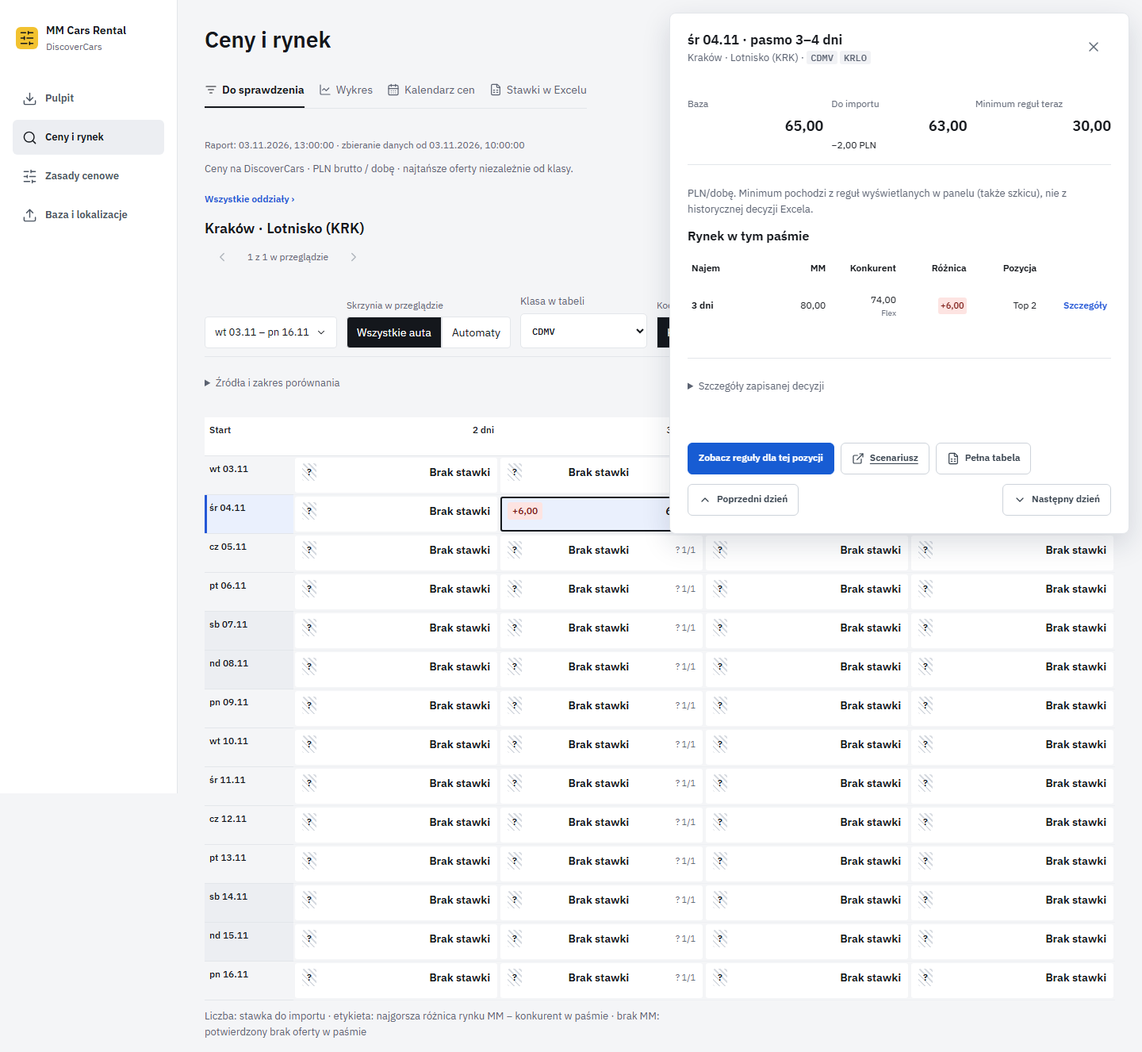
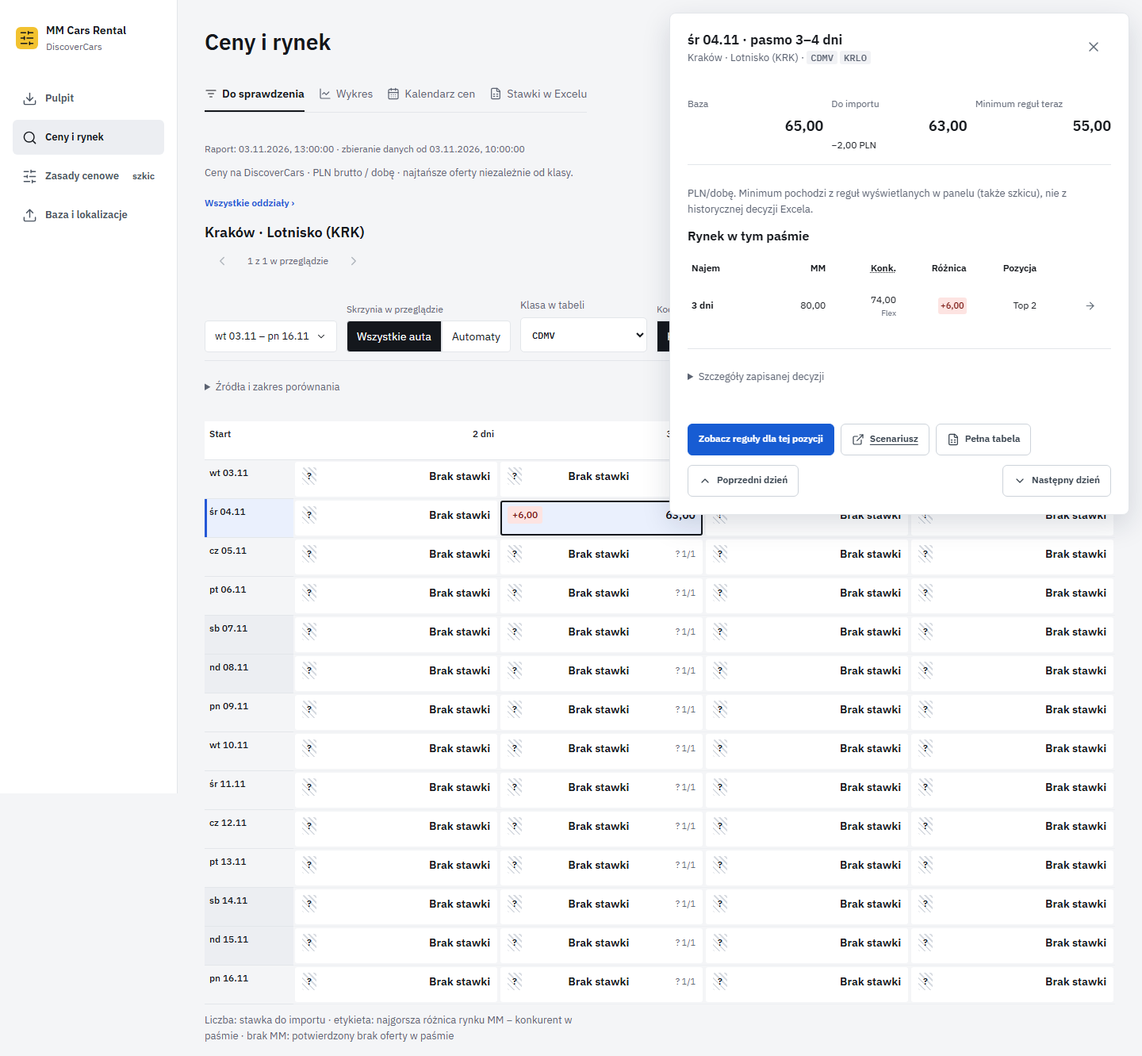
ui(stage 5): add operational dashboard and verify integrated price review

diff --git a/rules-panel/src/AttentionView.jsx b/rules-panel/src/AttentionView.jsx
@@ -1,15 +1,17 @@
 import React,{useMemo,useState,useEffect} from 'react';
 import {ChevronLeft,ChevronRight,ChevronDown} from 'lucide-react';
 import {weekdayDate} from './visual-format.mjs';
+import {matchesReview,reviewReasons} from './dashboard-model.mjs';
 import {AttentionMap} from './AttentionMap.jsx';
 import {buildAttentionMap} from './attention-map.mjs';
 import {warsawToday,plusDays,validDate,dateRange} from './market-model.mjs';
 import {branchOverview,locationLabel} from './operations.mjs';
 import {BandMatrix} from './BandMatrix.jsx';
-export function AttentionView({data,onSelect,request,model,workspace,service,calendar,onRules,onExcel}) {
+export function AttentionView({data,onSelect,request,model,workspace,service,calendar,onRules,onExcel,active=true,rulesModel=model}) {
  const [from,setFrom]=useState(warsawToday);const [to,setTo]=useState(()=>plusDays(warsawToday(),13));
  const [transmission,setTransmission]=useState('all');const [kind,setKind]=useState('all');
  const [location,setLocation]=useState(request?.row?.location??'');
+ const [reason,setReason]=useState(request?.reason??'all');
  const [mode,setMode]=useState('map'),[highlight,setHighlight]=useState(request?.row?.date??'');
  const rangeValid=validDate(from)&&validDate(to)&&from<=to&&Date.parse(to)-Date.parse(from)<366*86400000;
  const rows=useMemo(()=>(rangeValid?data?.rows??[]:[]).filter(r=>r.transmission===transmission&&r.duration>=2&&r.duration<=14&&(kind==='all'||r.type===kind)&&r.date>=from&&r.date<=to),[data,from,to,transmission,kind,rangeValid]);
@@ -18,14 +20,17 @@ export function AttentionView({data,onSelect,request,model,workspace,service,cal
 
  const dates=useMemo(()=>rangeValid?dateRange(from,to):[],[from,to,rangeValid]);
  const map=useMemo(()=>buildAttentionMap(rows,dates),[rows,dates]);
+ const visibleLocations=new Set(rows.filter(row=>matchesReview(row,reason)).map(row=>row.location));
+ const visibleMap=reason==='all'?map:map.filter(branch=>visibleLocations.has(branch.location));
  function openBranch(name,date=''){setLocation(name);setHighlight(date);}
  const position=map.findIndex(item=>item.location===location),summary=branches.find(item=>item.location===location);
  const rangeInputs=<><details className="range-picker"><summary>{weekdayDate(from,true)} – {weekdayDate(to,true)} <ChevronDown size={14}/></summary><div><label>Start od<input type="date" value={from} onChange={e=>setFrom(e.target.value)}/></label><label>Start do<input type="date" value={to} onChange={e=>setTo(e.target.value)}/></label></div></details><div><span className="filter-label">Skrzynia w przeglądzie</span><div className="segmented" role="group" aria-label="Skrzynia w przeglądzie">{[['all','Wszystkie auta'],['automatic','Automaty']].map(([value,label])=><button key={value} aria-pressed={transmission===value} onClick={()=>setTransmission(value)}>{label}</button>)}</div></div></>;
  return <section className="attention-view" aria-label="Przegląd oddziałów">
  {location?<header className="branch-header"><div><button className="text-button" onClick={()=>setLocation('')}>Wszystkie oddziały ›</button><h2>{locationLabel(location)}</h2><div className="branch-navigation"><button className="icon-button" title="Poprzedni oddział" aria-label="Poprzedni oddział" disabled={position<=0} onClick={()=>openBranch(map[position-1].location)}><ChevronLeft size={18}/></button><span>{position+1} z {map.length} w przeglądzie</span><button className="icon-button" title="Następny oddział" aria-label="Następny oddział" disabled={position<0||position>=map.length-1} onClick={()=>openBranch(map[position+1].location)}><ChevronRight size={18}/></button></div></div>{summary&&<p>{summary.missingDates} dni bez MM · {summary.over} z {summary.comparable} MM droższe &gt;10 · {summary.unavailable} brak danych</p>}</header>:<h2>Przegląd oddziałów</h2>}
- {!location&&<div className="market-filters">{rangeInputs}<label>Oddziały przeglądu<select value={kind} onChange={e=>{setKind(e.target.value);setLocation('');}}><option value="all">Wszystkie oddziały</option><option value="airport">Lotniska</option><option value="branch">Poza lotniskami</option></select></label></div>}
+ {!location&&<div className="market-filters"><label>Pozycje przeglądu<select value={reason} onChange={e=>setReason(e.target.value)}>{Object.entries(reviewReasons).map(([value,label])=><option value={value} key={value}>{label}</option>)}</select></label>{rangeInputs}<label>Oddziały przeglądu<select value={kind} onChange={e=>{setKind(e.target.value);setLocation('');}}><option value="all">Wszystkie oddziały</option><option value="airport">Lotniska</option><option value="branch">Poza lotniskami</option></select></label></div>}
+ {!location&&reason!=='all'&&<p className="evidence-note">Oddziały z pozycjami: {reviewReasons[reason]}. Pozostałe dni i ceny tych oddziałów pozostają widoczne.</p>}
  {!rangeValid&&<p role="alert">Początek zakresu musi poprzedzać koniec.</p>}
- {!location?<><div className="segmented" aria-label="Układ przeglądu"><button aria-pressed={mode==='map'} onClick={()=>setMode('map')}>Mapa</button><button aria-pressed={mode==='table'} onClick={()=>setMode('table')}>Tabela oddziałów</button></div>{mode==='map'?<AttentionMap branches={map} dates={dates} locations={data?.locations??[]} events={calendar?.items??[]} onOpen={openBranch}/>:<><p className="evidence-note">Brak MM: liczba dat z przynajmniej jednym potwierdzonym brakiem oferty. Różnica cen nie oznacza błędu ani możliwości obniżki.</p><table className="attention-table"><thead><tr><th>Oddział</th><th>Daty bez MM</th><th>MM droższe &gt;10 PLN/dobę</th><th>Brak danych</th><th></th></tr></thead><tbody>{branches.map(b=><tr key={b.location}><th scope="row" data-label="Oddział">{locationLabel(b.location)}</th><td data-label="Daty bez MM">{b.missingDates}</td><td data-label="MM droższe >10 PLN/dobę">{b.share===null?'Brak porównania':`${(b.share*100).toLocaleString('pl-PL',{maximumFractionDigits:0})}% (${b.over}/${b.comparable})`}</td><td data-label="Brak danych">{b.unavailable}</td><td><button className="text-button" onClick={()=>openBranch(b.location)}>Sprawdź oddział</button></td></tr>)}</tbody></table><p className="evidence-note">Procent dotyczy sprawdzeń z potwierdzoną ceną MM i konkurenta. Braki ofert i danych nie wchodzą do mianownika.</p></>}</>:<>{data&&<BandMatrix data={data} rows={rows.filter(r=>r.location===location)} dates={dates} location={location} transmission={transmission} model={model} workspace={workspace} service={service} onSelect={onSelect} highlight={highlight} filters={rangeInputs} onRules={onRules} onExcel={onExcel}/>}</>}
+ {!location?<><div className="segmented" aria-label="Układ przeglądu"><button aria-pressed={mode==='map'} onClick={()=>setMode('map')}>Mapa</button><button aria-pressed={mode==='table'} onClick={()=>setMode('table')}>Tabela oddziałów</button></div>{mode==='map'?<AttentionMap branches={visibleMap} dates={dates} locations={data?.locations??[]} events={calendar?.items??[]} onOpen={openBranch}/>:<><p className="evidence-note">Brak MM: liczba dat z przynajmniej jednym potwierdzonym brakiem oferty. Różnica cen nie oznacza błędu ani możliwości obniżki.</p><table className="attention-table"><thead><tr><th>Oddział</th><th>Daty bez MM</th><th>MM droższe &gt;10 PLN/dobę</th><th>Brak danych</th><th></th></tr></thead><tbody>{branches.filter(b=>visibleLocations.has(b.location)).map(b=><tr key={b.location}><th scope="row" data-label="Oddział">{locationLabel(b.location)}</th><td data-label="Daty bez MM">{b.missingDates}</td><td data-label="MM droższe >10 PLN/dobę">{b.share===null?'Brak porównania':`${(b.share*100).toLocaleString('pl-PL',{maximumFractionDigits:0})}% (${b.over}/${b.comparable})`}</td><td data-label="Brak danych">{b.unavailable}</td><td><button className="text-button" onClick={()=>openBranch(b.location)}>Sprawdź oddział</button></td></tr>)}</tbody></table><p className="evidence-note">Procent dotyczy sprawdzeń z potwierdzoną ceną MM i konkurenta. Braki ofert i danych nie wchodzą do mianownika.</p></>}</>:<>{data&&<BandMatrix activeView={active} rulesModel={rulesModel} data={data} rows={rows.filter(r=>r.location===location)} dates={dates} location={location} transmission={transmission} model={model} workspace={workspace} service={service} onSelect={onSelect} highlight={highlight} filters={rangeInputs} onRules={onRules} onExcel={onExcel}/>}</>}
  {!rows.length&&<p>Brak danych w wybranym zakresie.</p>}
  </section>;
 }

diff --git a/rules-panel/src/MarketWorkspace.jsx b/rules-panel/src/MarketWorkspace.jsx
@@ -17,17 +17,19 @@ const dayLabel=day=>`${day.slice(8)}.${day.slice(5,7)}.${day.slice(0,4)}`;
 const shortMoney=value=>value===null?'—':new Intl.NumberFormat('pl-PL',{maximumFractionDigits:0,notation:value>=10000?'compact':'standard'}).format(value);
 const tabs=[['attention','Do sprawdzenia',ListFilter],['chart','Wykres',ChartLine],['calendar','Kalendarz cen',CalendarDays],['excel','Stawki w Excelu',FileSpreadsheet]];
 
-export function MarketWorkspace({model,workspace,service,calendar,market,request,onRules}) {
+export function MarketWorkspace({model,workspace,service,calendar,market,request,onRules,active=true,rulesModel=model}) {
   const [view,setView]=useState('attention');const {data,busy,error,load}=market;const handledRequest=useRef(null);
   const [kind,setKind]=useState('airport');const [location,setLocation]=useState('Krakow Airport (KRK)');const [transmission,setTransmission]=useState('all');
   const [durations,setDurations]=useState([3]);const [from,setFrom]=useState('');const [to,setTo]=useState('');const [month,setMonth]=useState(warsawToday().slice(0,7));
   const [selected,setSelected]=useState(null);const neighbors=useRef([]);const selectRow=useCallback((row,items=[])=>{neighbors.current=items;setSelected(row);},[]);
+  const [excelGroup,setExcelGroup]=useState(undefined);
   const [excelVisited,setExcelVisited]=useState(false);const [excelZone,setExcelZone]=useState('KRLO');const [excelDuration,setExcelDuration]=useState(3);
   const marketLocations=model.locations.locations??model.locations;
   useEffect(()=>{if(view==='excel')setExcelVisited(true);},[view]);
   useEffect(()=>{const zones=marketLocations.find(l=>l.scraper_label===location)?.zones??[];setExcelZone(old=>zones.includes(old)?old:zones[0]??'');},[location,model.locations]);
-  const excelSelection={zone:excelZone,duration:durations.includes(excelDuration)?excelDuration:durations[0]??3,transmission,from,to};
+  const excelSelection={group:excelGroup,zone:excelZone,duration:durations.includes(excelDuration)?excelDuration:durations[0]??3,transmission,from,to};
   function changeExcel(patch) {
+    if ('group' in patch) setExcelGroup(patch.group);
     if ('zone' in patch) {setExcelZone(patch.zone);const item=marketLocations.find(l=>l.zones.includes(patch.zone));if(item){setLocation(item.scraper_label);setKind(item.kind==='airport'?'airport':'branch');}}
     if ('duration' in patch) {setExcelDuration(patch.duration);setDurations([patch.duration]);}
     if ('transmission' in patch) setTransmission(patch.transmission);
@@ -43,12 +45,12 @@ export function MarketWorkspace({model,workspace,service,calendar,market,request
   const days=useMemo(()=>rangeValid?dateRange(from,to):[],[from,to,rangeValid]);
   const applicableZones=data?.locations?.find(l=>l.scraper_label===location)?.zones??[];
   const series=duration=>{const found=new Map(rows.filter(r=>r.duration===duration).map(r=>[r.date,r]));return days.map(date=>found.get(date)??{date,duration,location,transmission,mm:null,competitor:null,marketConfirmed:false,gap:null,missingScenario:true});};
-  useEffect(()=>{setSelected(null);},[kind,location,transmission,durations,from,to]);
-  useEffect(()=>{if(!request||handledRequest.current===request.id||!data||!from||!to)return;handledRequest.current=request.id;setView('attention');selectRow(request.row??null,request.neighbors??[]);},[request,data,from,to,selectRow]);
+  useEffect(()=>{setSelected(null);},[kind,location,transmission,durations,from,to,view,active]);
+  useEffect(()=>{if(!request||handledRequest.current===request.id||!data||!from||!to)return;handledRequest.current=request.id;setView('attention');selectRow(null);},[request,data,from,to,selectRow]);
   function preset(count){const dates=[...new Set(data.rows.map(r=>r.date))].sort();const start=dates.find(d=>d>=warsawToday())??dates[0];setFrom(start);setTo(count?([plusDays(start,count-1),dates.at(-1)].sort()[0]):dates.at(-1));setMonth(start.slice(0,7));}
   function changeMonth(value){const dates=monthDates(value);if(dates.length){setMonth(value);setFrom(dates[0]);setTo(dates.at(-1));}}
   function shiftMonth(step){const [y,m]=month.split('-').map(Number);changeMonth(new Date(Date.UTC(y,m-1+step,1)).toISOString().slice(0,7));}
-  function openExcel(row){const zones=data.locations.find(l=>l.scraper_label===row.location)?.zones??[];if(zones.length){changeExcel({zone:zones[0],duration:row.duration,transmission:row.transmission,from:row.date,to:row.date});setView('excel');}}
+  function openExcel(row){const zones=data.locations.find(l=>l.scraper_label===row.location)?.zones??[];if(zones.length){changeExcel({zone:row.excelSelection?.zone??zones[0],group:row.excelSelection?.group??excelGroup,duration:row.duration,transmission:row.transmission,from:row.date,to:row.date});setView('excel');}}
   const reportLink=report?`/api/report/open?runId=${report.runId}`:null;
   return <section className={`market-workspace ${selected?'has-detail':''}`}>
     <div className="market-toolbar"><ViewTabs items={tabs} value={view} onChange={setView} label="Widok cen"/>{reportLink&&<a className="text-button" href={reportLink} target="_blank" rel="noreferrer"><ExternalLink size={16}/>Pełny raport HTML</a>}</div>
@@ -63,7 +65,7 @@ export function MarketWorkspace({model,workspace,service,calendar,market,request
         {data.report.quality==='failure'&&<div className="alert">Dane rynku są dostępne. Ten przebieg nie opublikował nowych plików Excel.</div>}
         {Date.now()-Date.parse(data.report.sourceStartedAt)>86400000&&<div className="alert">Zbieranie danych rozpoczęło się ponad 24 godziny temu. Dokładny czas odczytu poszczególnych cen nie jest zapisany w tym raporcie.</div>}
       </>}
-      <div hidden={view!=='attention'||!data}><AttentionView onRules={onRules} onExcel={openExcel} calendar={calendar} model={model} workspace={workspace} service={service} key={request?.id??"default"} request={request} data={data} onSelect={selectRow} selected={selected}/></div>
+      <div hidden={view!=='attention'||!data}><AttentionView active={active&&view==='attention'} rulesModel={rulesModel} onRules={onRules} onExcel={openExcel} calendar={calendar} model={model} workspace={workspace} service={service} key={request?.id??"default"} request={request} data={data} onSelect={selectRow} selected={selected}/></div>
       {data&&<>
         <div hidden={view==='attention'} className="market-filters chart-filters"><label>Oddziały<select value={kind} onChange={e=>{setKind(e.target.value);setLocation('*');}}><option value="airport">Lotniska</option><option value="all">Wszystkie oddziały</option><option value="branch">Poza lotniskami</option></select></label><label>Lokalizacja rynku<select value={location} onChange={e=>setLocation(e.target.value)}><option value="*">Wszystkie lokalizacje</option>{locations.map(l=><option key={l} value={l}>{locationLabel(l)}</option>)}</select></label><label>Skrzynia<select value={transmission} onChange={e=>setTransmission(e.target.value)}><option value="all">Wszystkie auta</option><option value="automatic">Tylko automaty</option></select></label>
         {view==='calendar'?<DurationChips values={durations} onChange={setDurations}/>:<details className="duration-select"><summary>Długość najmu: {durations.length?durations.join(', '):'brak'} dni</summary><fieldset><legend>Długości najmu</legend>{Array.from({length:13},(_,i)=>i+2).map(d=><label key={d}><input type="checkbox" checked={durations.includes(d)} onChange={e=>setDurations(old=>e.target.checked?[...old,d].sort((a,b)=>a-b):old.filter(n=>n!==d))}/>{d} dni</label>)}</fieldset></details>}

diff --git a/rules-panel/src/Dashboard.jsx b/rules-panel/src/Dashboard.jsx
@@ -1,12 +1,41 @@
-import React from 'react';
-import {ArrowRight,Download} from 'lucide-react';
-import {timestamp,dateRanges} from './display.mjs';
-export function Dashboard({workspace,onMarket}) {
- const {report,excel,links={}}=workspace?.status??{};
+import React,{useMemo} from 'react';
+import {ArrowRight,Download,RotateCcw} from 'lucide-react';
+import {timestamp} from './display.mjs';
+import {weekdayDate} from './visual-format.mjs';
+import {money,warsawToday} from './market-model.mjs';
+import {locationLabel,countLabel} from './operations.mjs';
+import {nextSchedule} from './change-review.mjs';
+import {dashboardOverview} from './dashboard-model.mjs';
+import {PriceBadge} from './PriceBadge.jsx';
+
+export function Dashboard({workspace,onMarket,market,changeCount=0,largeCount=0,onReview,onDiagnostics}) {
+ const {report,excel,links={},executions}=workspace?.status??{};
+ const {data,busy,error,load}=market;
+ const today=warsawToday(),overview=useMemo(()=>dashboardOverview(data,today),[data,today]);
+ const old=report&&Date.now()-Date.parse(report.sourceStartedAt)>86400000;
+ const next=nextSchedule(__SCRAPER_PLAN__),last=executions?.latestScrape;
+ const latestUnknown=last&&last.runId!==report?.runId;
+ const excelState=latestUnknown?'Sprawdź ostatni przebieg':report?.quality==='failure'?'Excel nieopublikowany':excel?'Excel dostępny':'Brak poprawnego Excela';
+ const coverage=report?.coverage?.expected>0?(100*report.coverage.found/report.coverage.expected).toLocaleString('pl-PL',{maximumFractionDigits:1})+'% sprawdzeń':null;
+ const zone=location=>data?.locations?.find(item=>item.scraper_label===location)?.zones?.[0];
+ const longDay=new Intl.DateTimeFormat('pl-PL',{weekday:'long',day:'numeric',month:'long',timeZone:'Europe/Warsaw'}).format(new Date(today+'T12:00:00Z'));
  return <section className="operations-dashboard" aria-label="Podsumowanie raportu">
- <p>{report?`Odczyt cen od ${timestamp(report.sourceStartedAt)} · starty ${dateRanges(report.startDates).join(', ')}`:'Brak potwierdzonego raportu cenowego.'}</p>
- <p>{excel?`Excel: ${timestamp(excel.generatedAt)}`:'Brak poprawnych plików Excel.'}{excel&&report?.runId!==excel.runId&&' Pliki pochodzą z innego uruchomienia niż raport cen.'}</p>
- {report&&Date.now()-Date.parse(report.sourceStartedAt)>86400000&&<p className="alert">Dane cenowe są starsze niż 24 godziny.</p>}
- <div className="review-actions">{excel&&links.import&&<a className="button primary" href={links.import}><Download size={17}/>Import</a>}{excel&&links.recommendations&&<a className="button" href={links.recommendations}><Download size={17}/>Rekomendacje</a>}<button className="button" onClick={()=>onMarket('all')}>Przejrzyj ceny<ArrowRight size={17}/></button></div>
+  <div className="dashboard-status">
+   <div><span>Raport cen</span><strong>{!report?'Brak potwierdzonego raportu':old?'Starszy niż 24 h':'Aktualny'}</strong><small>{report?timestamp(report.generatedAt):'Brak danych'}{coverage&&' · '+coverage}</small></div>
+   <div><span>Excel</span><button className="text-button" onClick={onDiagnostics}>{excelState}</button><small>{latestUnknown?'Diagnostyka ostatniego uruchomienia':report?.incident?.title??(excel?timestamp(excel.generatedAt):'Brak plików')}</small></div>
+   <div><span>Szkic zasad</span><button className="text-button" onClick={onReview}>{countLabel(changeCount,'zmiana','zmiany','zmian')} · Przejrzyj</button><small>{largeCount?countLabel(largeCount,'duża zmiana','duże zmiany','dużych zmian'):'Brak dużych zmian'}</small></div>
+   <div><span>Następny planowany start</span><strong>{next?next.time:'Brak harmonogramu'}</strong><small>{next?weekdayDate(next.date)+' · rolling '+next.rollingDays+' dni':''} · czas polski</small></div>
+  </div>
+  <header className="dashboard-heading"><div><h2>Przegląd na {longDay}</h2><p>Najbliższe 14 dni · {data?countLabel(overview.locationCount,'oddział','oddziały','oddziałów'):'odczyt oddziałów'} · najem 2–14 dni · wszystkie auta · {data?overview.rows.length.toLocaleString('pl-PL'):'—'} sprawdzeń</p></div><button className="button primary" onClick={()=>onMarket('all')}>Zacznij przegląd<ArrowRight size={17}/></button></header>
+  <div className="review-actions">{excel&&links.import&&<a className="button" href={links.import}><Download size={17}/>Import</a>}{excel&&links.recommendations&&<a className="button" href={links.recommendations}><Download size={17}/>Rekomendacje</a>}</div>
+  {excel&&report?.runId!==excel.runId&&<p className="alert">Pliki Excel pochodzą z innego uruchomienia niż raport cen. Nie przedstawiamy ich jako nowych plików tego przebiegu.</p>}
+  {busy&&<p role="status">Odczytywanie raportu cenowego…</p>}
+  {error&&<div role="alert" className="alert error">{error}<button className="button" onClick={load}><RotateCcw size={16}/>Ponów odczyt cen</button></div>}
+  {data&&<><div className="dashboard-metrics">{overview.metrics.map(metric=><button key={metric.reason} className="dashboard-metric" onClick={()=>onMarket(metric.reason)}><span>{metric.label}</span><strong>{metric.count.toLocaleString('pl-PL')}</strong><small>w {metric.branches} z {overview.locationCount} oddziałów</small><span className={'metric-bars metric-'+metric.reason} role="img" aria-label={metric.days.map(day=>weekdayDate(day.date,true)+': '+day.count).join('; ')}>{metric.days.map(day=><i key={day.date} style={{height:Math.max(2,36*day.count/Math.max(1,...metric.days.map(d=>d.count)))}}/>)}</span></button>)}</div>
+   <div className="dashboard-lists"><section className="dashboard-urgent"><div className="section-title"><h3>Najpilniejsze</h3><button className="text-button" onClick={()=>onMarket('urgent')}>Wszystkie ({overview.urgent.length})</button></div>
+    <table><thead><tr><th>Oddział</th><th>Start</th><th>Najem</th><th>MM</th><th>Konkurent</th><th>MM − konkurent</th></tr></thead><tbody>{overview.urgent.slice(0,6).map(row=><tr key={row.key}><th data-label="Oddział"><button className="text-button" onClick={()=>onMarket('all',row)}>{locationLabel(row.location)}</button> <span className="code">{zone(row.location)}</span></th><td data-label="Start">{weekdayDate(row.date,true)}</td><td data-label="Najem">{row.duration} dni</td><td data-label="MM">{row.mm===null?'brak MM':money(row.mm)}</td><td data-label="Konkurent">{money(row.competitor)}</td><td data-label="MM − konkurent"><PriceBadge gap={row.gap} missing={row.mm===null}/></td></tr>)}</tbody></table>
+    {!overview.urgent.length&&<p>Brak potwierdzonych braków MM i różnic ponad 10 PLN/dobę.</p>}
+   </section><section className="dashboard-branches"><h3>Oddziały z największą liczbą pozycji</h3><p className="evidence-note">Brak MM / MM droższe &gt;10 PLN/dobę</p>{overview.branches.filter(branch=>branch.missing+branch.over>0).slice(0,6).map(branch=><button key={branch.location} onClick={()=>onMarket('all',{location:branch.location})}><span>{locationLabel(branch.location)}</span><strong>{branch.missing+branch.over}</strong><span className="branch-bars" role="img" aria-label={branch.missing+' braków MM, '+branch.over+' droższych ofert'}><i className="tone-missing" style={{width:100*branch.missing/Math.max(1,...overview.branches.map(b=>b.missing+b.over))+'%'}}/><i className="tone-over-3" style={{width:100*branch.over/Math.max(1,...overview.branches.map(b=>b.missing+b.over))+'%'}}/></span></button>)}</section></div>
+  </>}
  </section>;
 }

diff --git a/rules-panel/src/redesign.css b/rules-panel/src/redesign.css
@@ -42,3 +42,12 @@ body{background:var(--bg)}.brand-symbol{width:28px;height:28px;background:var(--
 .calendar-section-heading{display:flex;gap:12px;flex-wrap:wrap;align-items:center;justify-content:space-between;margin:12px 0}.calendar-section-heading>span{color:var(--muted);font-size:12px}
 .market-calendar-grid .market-day{min-height:106px;padding:8px;border:1px solid transparent;border-radius:4px;display:flex;flex-direction:column;align-items:start;gap:4px;text-align:left}.market-calendar-grid .market-day strong{font-size:18px;font-weight:600}.market-calendar-grid .market-day small{font-size:12px;color:inherit}.market-calendar-grid .market-day>span{font-size:12px;display:flex;justify-content:space-between;width:100%}.market-calendar-grid .outside-report{border:1px dashed var(--line);background:transparent;color:var(--muted);opacity:1}.market-calendar-grid .weekend>span{font-weight:600;text-decoration:underline;text-underline-offset:3px}.market-calendar-grid .today{outline:2px solid var(--ink);outline-offset:-2px}
 @media(max-width:760px){.market-calendar-grid{gap:3px}.market-calendar-grid .market-day{min-height:95px;padding:4px 2px;gap:3px}.market-calendar-grid .market-day strong{font-size:16px}.market-calendar-grid .market-day small{font-size:10px;overflow-wrap:anywhere}.market-calendar-grid .market-day>span{font-size:10px}.calendar-section-heading{display:block}.duration-chips details>div{left:auto;right:0}}
+.dashboard-status{display:grid;grid-template-columns:repeat(4,minmax(0,1fr));border-block:1px solid var(--line);padding:14px 0;gap:16px}.dashboard-status>div{display:flex;flex-direction:column;align-items:start;gap:5px;min-width:0}.dashboard-status span,.dashboard-status small{font-size:12px;color:var(--muted);overflow-wrap:anywhere}.dashboard-status strong{font-size:15px;font-weight:500}.dashboard-status .text-button{padding:0;min-height:40px;text-align:left;white-space:normal}
+.dashboard-heading{display:flex;justify-content:space-between;align-items:center;gap:16px;margin:24px 0 12px}.dashboard-heading h2{font-size:22px;margin:0}.dashboard-heading p{font-size:13px;color:var(--muted)}.dashboard-heading .button{flex-shrink:0}
+.dashboard-metrics{display:grid;grid-template-columns:repeat(4,minmax(0,1fr));gap:12px;margin:24px 0}.dashboard-metric{border:1px solid var(--line);background:white;border-radius:6px;padding:16px;text-align:left;font:inherit;color:var(--ink);min-width:0;display:flex;flex-direction:column;gap:8px}.dashboard-metric>span:first-child{font-size:13px;min-height:38px}.dashboard-metric>strong{font-size:28px;font-weight:600}.dashboard-metric>small{font-size:12px;color:var(--muted)}.metric-bars{height:36px;display:grid;grid-template-columns:repeat(14,minmax(0,1fr));gap:3px;align-items:end}.metric-bars i{display:block;background:var(--ink);width:100%}.metric-over i{background:var(--over-3)}.metric-reserve i{background:var(--under-3)}.metric-unavailable i{background:#777f8c}.dashboard-metric:hover{border-color:var(--ink)}
+.dashboard-lists{display:grid;grid-template-columns:minmax(0,2fr) minmax(230px,1fr);gap:24px;border-top:1px solid var(--line);padding:20px 0}.dashboard-lists h3{font-size:16px;font-weight:600;margin:0 0 12px}.dashboard-urgent table{width:100%;table-layout:fixed;font-size:12px}.dashboard-urgent th,.dashboard-urgent td{padding:10px 5px;border-bottom:1px solid var(--line-soft);text-align:right;overflow-wrap:anywhere}.dashboard-urgent th:first-child{width:28%;text-align:left}.dashboard-urgent th .text-button{font-size:12px;text-align:left;padding:0;white-space:normal;color:var(--ink)}.dashboard-urgent th .code{display:block;width:fit-content}.dashboard-urgent .price-badge{white-space:normal}
+.dashboard-branches>button{display:grid;grid-template-columns:minmax(0,1fr) auto;width:100%;border:0;background:transparent;font:inherit;text-align:left;gap:6px;padding:10px 0;border-bottom:1px solid var(--line-soft);min-height:60px;font-size:13px}.branch-bars{grid-column:1/-1;display:flex;gap:1px;height:8px;width:100%}.branch-bars i{display:block}.dashboard-branches .evidence-note{font-size:11px}
+@media(max-width:1100px){.dashboard-lists{grid-template-columns:1fr}.dashboard-status{grid-template-columns:repeat(2,minmax(0,1fr))}}
+@media(max-width:760px){.dashboard-heading{display:block}.dashboard-heading h2{font-size:20px}.dashboard-heading .button{margin-top:12px}.dashboard-metrics{grid-template-columns:repeat(2,minmax(0,1fr));gap:8px}.dashboard-metric{padding:12px}.dashboard-metric>strong{font-size:24px}.dashboard-urgent thead{display:none}.dashboard-urgent table,.dashboard-urgent tbody{display:block}.dashboard-urgent tbody tr{display:grid;grid-template-columns:repeat(2,minmax(0,1fr));border-bottom:1px solid var(--line);padding:10px 0}.dashboard-urgent th:first-child{grid-column:1/-1;width:auto}.dashboard-urgent td,.dashboard-urgent th{border:0;text-align:left}.dashboard-urgent td:before{content:attr(data-label);display:block;font-size:10px;color:var(--muted)}.dashboard-status{gap:12px}}
+.operations-dashboard{display:block}.operations-dashboard>.review-actions:empty{display:none}.operations-dashboard>.review-actions{margin:12px 0}.change-review-table td:nth-child(2),.change-review-table td:nth-child(3),.change-review-table td:nth-child(4){text-align:right}.band-detail .technical-details{margin:12px 0}.band-detail .band-scenarios td,.band-detail .band-scenarios th{padding-block:8px}
+@media(max-width:760px){.band-matrix>thead th:first-child{width:62px}.band-detail .band-scenarios .icon-button{padding:4px;width:40px;height:40px}.band-detail .band-scenarios abbr{text-decoration:none}}

diff --git a/rules-panel/src/main.jsx b/rules-panel/src/main.jsx
@@ -28,10 +28,14 @@ import {
   Upload as UploadIcon,
   X,
 } from "lucide-react";
-import "@fontsource/ibm-plex-sans/400.css";
-import "@fontsource/ibm-plex-sans/500.css";
-import "@fontsource/ibm-plex-sans/600.css";
-import "@fontsource/ibm-plex-mono/500.css";
+import "@fontsource/ibm-plex-sans/latin-400.css";
+import "@fontsource/ibm-plex-sans/latin-ext-400.css";
+import "@fontsource/ibm-plex-sans/latin-500.css";
+import "@fontsource/ibm-plex-sans/latin-ext-500.css";
+import "@fontsource/ibm-plex-sans/latin-600.css";
+import "@fontsource/ibm-plex-sans/latin-ext-600.css";
+import "@fontsource/ibm-plex-mono/latin-500.css";
+import "@fontsource/ibm-plex-mono/latin-ext-500.css";
 import {ViewTabs} from "./ViewTabs.jsx";
 import "./styles.css";
 import * as policy from "./policy.mjs";
@@ -182,7 +186,7 @@ function App() {
   const [view, setView] = useState(routeView);
   const [pricesVisited, setPricesVisited] = useState(() => routeView() === 'prices');
   const [marketRequest,setMarketRequest]=useState(null);
-  const market=useMarketReport(service,workspaceData?.status?.report,pricesVisited);
+  const market=useMarketReport(service,workspaceData?.status?.report,pricesVisited||view==='results');
   const attentionCount=useMemo(()=>market.data?overviewRows(market.data).filter(row=>marketSignals(row,market.data.report).includes('missing')).length:null,[market.data]);
   const [ruleContext,setRuleContext]=useState(null);
   const [ruleView, setRuleView] = useState('list');
@@ -767,7 +771,7 @@ function App() {
               </>)}
             </>
           )}
-          {pricesVisited && <div hidden={view !== 'prices'}><MarketWorkspace onRules={query=>{setRuleContext(query);go('rules');}} model={original} workspace={workspaceData} service={service} calendar={calendarEvents} market={market} request={marketRequest}/></div>}
+          {pricesVisited && <div hidden={view !== 'prices'}><MarketWorkspace active={view==='prices'} rulesModel={model} onRules={query=>{setRuleContext(query);go('rules');}} model={original} workspace={workspaceData} service={service} calendar={calendarEvents} market={market} request={marketRequest}/></div>}
           {view === "groups" && (
             <>
             {remote && <div className="shared-reason"><ReasonField value={reason} onChange={setReason} /></div>}
@@ -851,7 +855,7 @@ function App() {
               )}
             </section>
           )}
-          {view === 'results' && <><Dashboard workspace={workspaceData} onMarket={openMarket}/><ReportsView workspace={workspaceData ?? {status:{available:false},capabilities:{publish:false}}} service={service} onRefresh={refreshWorkspace} onPublished={async () => acceptWorkspace(await service.workspace())} /><details className="technical-details"><summary>Konfiguracja techniczna</summary><Sources snapshot={snapshot} model={model} remote={remote} capabilities={workspaceData?.capabilities} /></details></>}
+          {view === 'results' && <><Dashboard workspace={workspaceData} market={market} changeCount={changes.length} largeCount={requiredConfirmations(model,original).length} onReview={()=>go('review')} onDiagnostics={()=>{const details=document.querySelector('.reports-diagnostics');if(details){details.open=true;details.scrollIntoView({block:'start'});}}} onMarket={openMarket}/><ReportsView workspace={workspaceData ?? {status:{available:false},capabilities:{publish:false}}} service={service} onRefresh={refreshWorkspace} onPublished={async () => acceptWorkspace(await service.workspace())} /><details className="technical-details"><summary>Konfiguracja techniczna</summary><Sources snapshot={snapshot} model={model} remote={remote} capabilities={workspaceData?.capabilities} /></details></>}
           {view === 'baseline' && <><BaselineView snapshot={snapshot} service={service} enabled={Boolean(remote && workspaceData?.capabilities.publish)} onPublished={async () => acceptWorkspace(await service.workspace())} /><details className="technical-details"><summary>Powiązania lokalizacji ({locationList(original).length})</summary><table className="location-directory"><thead><tr><th>Lokalizacja rynku</th><th>Kody w Excelu</th><th>Typ</th></tr></thead><tbody>{locationList(original).map(item => <tr key={item.id}><td data-label="Lokalizacja rynku">{locationLabel(item.scraper_label)}</td><td data-label="Kody w Excelu">{item.zones.join(', ')}</td><td data-label="Typ">{item.kind === 'airport' ? 'Lotnisko' : 'Poza lotniskiem'}</td></tr>)}</tbody></table></details></>}
         </main>
       </div>

diff --git a/rules-panel/src/BandDetail.jsx b/rules-panel/src/BandDetail.jsx
@@ -1,5 +1,5 @@
 import React,{useEffect,useRef,useMemo} from 'react';
-import {X,ChevronUp,ChevronDown,ExternalLink,FileSpreadsheet} from 'lucide-react';
+import {X,ChevronUp,ChevronDown,ExternalLink,FileSpreadsheet,ArrowRight} from 'lucide-react';
 import {previewPolicy} from './policy.mjs';
 import {bandLabel,bandEvidence} from './band-matrix.mjs';
 import {money,scenarioLink} from './market-model.mjs';
@@ -9,10 +9,10 @@ import {PriceBadge} from './PriceBadge.jsx';
 import {InlineDecision} from './InlineDecision.jsx';
 import {mixedBand} from './attention-map.mjs';
 
-export function BandDetail({date,cell,zone,group,result,location,transmission,data,model,workspace,service,onClose,onMove,canPrevious,canNext,onSelect,onRules,onExcel}) {
+export function BandDetail({date,cell,zone,group,result,location,transmission,data,model,workspace,service,onClose,onMove,canPrevious,canNext,onSelect,onRules,onExcel,rulesModel=model}) {
  const dialog=useRef(null),heading=useRef(null),previous=useRef(document.activeElement);
  const evidence=bandEvidence(result,cell.band[0]),record=evidence?.rows.find(row=>row.date===date);
- const minima=useMemo(()=>Array.from({length:cell.band[1]-cell.band[0]+1},(_,i)=>previewPolicy(model,{zone,group,pickupDate:date,duration:cell.band[0]+i}).floor).filter(Number.isFinite),[model,zone,group,date,cell.band]);
+ const minima=useMemo(()=>!zone||!group?[]:Array.from({length:cell.band[1]-cell.band[0]+1},(_,i)=>previewPolicy(rulesModel,{zone,group,pickupDate:date,duration:cell.band[0]+i}).floor).filter(Number.isFinite),[rulesModel,zone,group,date,cell.band]);
  const floor=minima.length?(Math.min(...minima)===Math.max(...minima)?money(minima[0]):money(Math.min(...minima))+'–'+money(Math.max(...minima))):'Brak minimum';
  const enriched=row=>({...row,excelSelection:{zone,group},excelEvidence:evidence});
  const selected=enriched(cell.rows[0]??{date,duration:cell.band[0],location,transmission});
@@ -37,7 +37,7 @@ export function BandDetail({date,cell,zone,group,result,location,transmission,da
   <section className="band-scenarios" aria-label={`Najem ${bandLabel(cell.band)} dni`}><h3>Rynek w tym paśmie</h3>
    {cell.band[1]===20&&<p className="evidence-note">15–20 dni: brak sprawdzeń rynku. Stawka Excela obejmuje cały przedział 8–20.</p>}
    {cell.unavailable>0&&<p className="evidence-note">Brak potwierdzonych cen dla: {cell.expected.filter(d=>!cell.rows.some(r=>r.duration===d&&r.marketConfirmed)).join(', ')} dni.</p>}
-   <table><thead><tr><th>Najem</th><th>MM</th><th>Konkurent</th><th>Różnica</th><th>Pozycja</th><th></th></tr></thead><tbody>{cell.rows.map(row=><tr key={row.key}><th>{row.duration} dni</th><td>{row.marketConfirmed?money(row.mm):'?'}</td><td>{row.marketConfirmed?money(row.competitor):'?'}<small>{row.provider}</small></td><td><PriceBadge gap={row.gap} missing={row.marketConfirmed&&row.mm===null} unavailable={!row.marketConfirmed}/></td><td>{row.rankLabel??'Brak danych'}</td><td><button className="text-button" onClick={()=>{onClose();onSelect(enriched(row),cell.rows.map(enriched));}}>Szczegóły</button></td></tr>)}</tbody></table>
+   <table><thead><tr><th>Najem</th><th>MM</th><th><abbr title="Najtańszy konkurent">Konk.</abbr></th><th>Różnica</th><th>Pozycja</th><th></th></tr></thead><tbody>{cell.rows.map(row=><tr key={row.key}><th>{row.duration} dni</th><td>{row.marketConfirmed?money(row.mm):'?'}</td><td>{row.marketConfirmed?money(row.competitor):'?'}<small>{row.provider}</small></td><td><PriceBadge gap={row.gap} missing={row.marketConfirmed&&row.mm===null} unavailable={!row.marketConfirmed}/></td><td>{row.rankLabel??'Brak danych'}</td><td><button className="icon-button" title="Szczegóły scenariusza" aria-label="Szczegóły" onClick={()=>{onClose();onSelect(enriched(row),cell.rows.map(enriched));}}><ArrowRight size={15}/></button></td></tr>)}</tbody></table>
    {!cell.rows.length&&<p>Brak sprawdzonych scenariuszy w tym przedziale.</p>}
   </section>
   <details className="technical-details"><summary>Szczegóły zapisanej decyzji</summary>{evidence?<InlineDecision lockedSelection key={date+'-'+group+'-'+zone} row={selected} data={data} model={model} workspace={workspace} service={service}/>:<p>Brak odczytanego zapisu Excela dla tego pasma.</p>}</details>

diff --git a/rules-panel/src/BandMatrix.jsx b/rules-panel/src/BandMatrix.jsx
@@ -8,7 +8,7 @@ import {BandDetail} from './BandDetail.jsx';
 const dayLabel=value=>weekdayDate(value,true);
 
 
-export function BandMatrix({data,rows,dates,location,transmission,model,workspace,service,onSelect,highlight,filters,onRules,onExcel}) {
+export function BandMatrix({data,rows,dates,location,transmission,model,workspace,service,onSelect,highlight,filters,onRules,onExcel,activeView=true,rulesModel=model}) {
  const groups=knownGroups(model),zones=data.locations.find(l=>l.scraper_label===location)?.zones??[];
  const [group,setGroup]=useState(groups.includes('CDMV')?'CDMV':groups[0]);
  const [chosen,setChosen]=useState('');const zone=zones.includes(chosen)?chosen:zones[0];
@@ -23,6 +23,7 @@ export function BandMatrix({data,rows,dates,location,transmission,model,workspac
  },[key,attempt,service]);
  useEffect(()=>{setExpanded(null);setLimit(20);onSelect(null);},[key,dates.join(','),transmission,onSelect]);
  useEffect(()=>{if(!highlight)return;setLimit(n=>Math.max(n,dates.indexOf(highlight)+1));requestAnimationFrame(()=>document.getElementById('band-day-'+highlight)?.scrollIntoView({block:'nearest'}));},[highlight,dates.join(',')]);
+ useEffect(()=>{if(!activeView)setExpanded(null);},[activeView]);
  const current=state.key===key?state:{};
  const matrix=useMemo(()=>buildBandMatrix(dates,rows,data.report.durations),[dates,rows,data.report.durations]);
  const active=matrix.flatMap(day=>day.cells.map(cell=>({date:day.date,cell}))).find(item=>expanded===item.date+'-'+item.cell.band[0]);
@@ -41,7 +42,7 @@ export function BandMatrix({data,rows,dates,location,transmission,model,workspac
    return <td key={id}><button className="band-cell" aria-label={`${weekdayDate(day.date)} · ${bandLabel(cell.band)} dni${cell.missingMM?' · brak MM w '+cell.missingMM+' z '+cell.expected.length+' długości':''}`} aria-expanded={open} onClick={()=>setExpanded(open?null:id)}><small className="mobile-band">{bandLabel(cell.band)} dni</small><PriceBadge gap={cell.worstGap} missing={cell.missingMM>0} unavailable={cell.worstGap===null&&!cell.missingMM}/><strong>{current.busy?'Odczyt…':rate==null?'Brak stawki':money(rate)}</strong>{cell.unavailable>0&&<small className="band-unavailable">? {cell.unavailable}/{cell.expected.length}</small>}</button></td>;
   })}</tr>)}</tbody></table>
   <p className="evidence-note">Liczba: stawka do importu · etykieta: najgorsza różnica rynku MM − konkurent w paśmie · brak MM: potwierdzony brak oferty w paśmie</p>
-  {active&&<BandDetail {...active} zone={zone} group={group} result={current.data} location={location} transmission={transmission} data={data} model={model} workspace={workspace} service={service} onClose={()=>setExpanded(null)} onMove={moveDay} canPrevious={dayIndex>0} canNext={dayIndex<matrix.length-1} onSelect={onSelect} onRules={onRules} onExcel={onExcel}/>}
+  {active&&<BandDetail rulesModel={rulesModel} {...active} zone={zone} group={group} result={current.data} location={location} transmission={transmission} data={data} model={model} workspace={workspace} service={service} onClose={()=>setExpanded(null)} onMove={moveDay} canPrevious={dayIndex>0} canNext={dayIndex<matrix.length-1} onSelect={onSelect} onRules={onRules} onExcel={onExcel}/>}
   {matrix.length>limit&&<button className="button" onClick={()=>setLimit(n=>n+20)}>Pokaż kolejne 20 dat</button>}
  </section>;
 }

diff --git a/rules-panel/src/AmountField.jsx b/rules-panel/src/AmountField.jsx
@@ -9,7 +9,7 @@ export function AmountField({label,before,value,onChange,ruleId,scope,confirmati
   const next=nextSchedule(__SCRAPER_PLAN__);
   return <div className="amount-field"><label>{label}<input autoFocus={autoFocus} type="number" min="0.01" max="100000" step="0.01" aria-invalid={invalid} required={!optional} value={value??''} placeholder={optional?'Bez zmian':undefined} onChange={e=>onChange(e.target.value===''?'':Number(e.target.value))}/></label>
     <p className="amount-comparison">{before!=null?`Obecnie ${money(before)} PLN → ${amountValid(value)?money(Number(value)):'—'} PLN`:'Nowa reguła · brak jednej dotychczasowej stawki do porównania'}</p>
-    {delta&&delta.delta!==0&&<p className="amount-delta">{delta.delta>0?'+':''}{money(delta.delta)} PLN · {delta.percent>0?'+':''}{delta.percent.toLocaleString('pl-PL',{maximumFractionDigits:2})}%{delta.large&&` · ×${delta.factor.toLocaleString('pl-PL',{maximumFractionDigits:2})}`}</p>}
+    {delta&&delta.delta!==0&&<p className="amount-delta">{delta.delta>0?'+':''}{money(delta.delta)} PLN · {delta.large?`×${delta.factor.toLocaleString('pl-PL',{maximumFractionDigits:2})}`:`${delta.percent>0?'+':''}${delta.percent.toLocaleString('pl-PL',{maximumFractionDigits:2})}%`}</p>}
     {invalid&&<p className="field-error" role="alert">Podaj kwotę większą od 0 i nie większą niż 100 000 PLN.</p>}
     {delta?.large&&<div className="large-amount-warning" role="alert"><strong>Duża zmiana kwoty</strong><p>Zakres reguły: {scope}.</p>{next&&<p>Planowany start: {next.date.split('-').reverse().join('.')} o {next.time}, czas polski. Zmiana dotyczy uruchomień rozpoczętych po publikacji.</p>}<label className="checkbox-label"><input type="checkbox" checked={Boolean(checked)} onChange={e=>onConfirm(item,e.target.checked)}/>Potwierdzam kwotę {money(Number(value))} PLN</label></div>}
   </div>;

diff --git a/rules-panel/src/PriceCalendar.jsx b/rules-panel/src/PriceCalendar.jsx
@@ -20,7 +20,7 @@ export function PriceCalendar({month,rows,duration,events,zones,onSelect,reportD
    const missing=row?.marketConfirmed&&row.mm===null;
    const tone=missing?'missing':row?.marketConfirmed&&Number.isFinite(row.gap)?priceTone(-row.gap):'nodata';
    const entries=eventsForDay(events,day,zones);
-   const description=outside?'poza raportem':!row?'poza filtrem dat':!row.marketConfirmed?'brak potwierdzonych danych':missing?`brak MM, konkurent ${money(row.competitor)} PLN/d`:`MM ${money(row.mm)}, konkurent ${money(row.competitor)}, różnica ${signedPrice(-row.gap)} PLN/d`;
+   const description=outside?'poza raportem':!row?'poza filtrem dat':!row.marketConfirmed?'brak potwierdzonych danych':missing?`brak MM, konkurent ${money(row.competitor)} PLN/d`:`MM ${money(row.mm)}, konkurent ${money(row.competitor)}, różnica ${Number.isFinite(row.gap)?signedPrice(-row.gap)+' PLN/d':'brak porównania'}`;
    return <button key={day} disabled={!enabled} className={`market-day tone-${tone} ${outside||!row?'outside-report':''} ${isWeekend(day)?'weekend':''} ${day===warsawToday()?'today':''}`} aria-label={`${weekdayDate(day)}, ${description}`} onClick={()=>onSelect(row)}><span>{Number(day.slice(8))}{entries.length>0&&<CalendarDays className="event-day-marker" size={12} aria-label={entries.map(e=>e.title).join(', ')}/>}</span>{outside||!row?<small>{outside?'poza raportem':'poza filtrem'}</small>:<><strong>{missing?'brak MM':row.marketConfirmed?shortMoney(row.mm):'?'}</strong><small>konk. {row.marketConfirmed?shortMoney(row.competitor):'?'}</small><small>{Number.isFinite(row.gap)&&row.marketConfirmed?signedPrice(-row.gap,0):'?'}</small></>}</button>;
   })}</div>
  </section>;

diff --git a/rules-panel/src/PricesView.jsx b/rules-panel/src/PricesView.jsx
@@ -16,7 +16,9 @@ export function PricesView({model,workspace,service,selection,onSelectionChange}
   const {zone,duration,transmission,from,to}=selection;
   const setZone=zone=>onSelectionChange({zone});const setDuration=duration=>onSelectionChange({duration});
   const setTransmission=transmission=>onSelectionChange({transmission});const setFrom=from=>onSelectionChange({from});const setTo=to=>onSelectionChange({to});
-  const [group,setGroup]=useState(groups.includes('CDMV')?'CDMV':groups[0]??'');
+  const [localGroup,setLocalGroup]=useState(groups.includes('CDMV')?'CDMV':groups[0]??'');
+  const group=selection.group??localGroup;
+  const setGroup=value=>{setLocalGroup(value);onSelectionChange({group:value});};
   const [data,setData]=useState(null);const [busy,setBusy]=useState(false);const [error,setError]=useState('');
   const [selected,setSelected]=useState('');const [limit,setLimit]=useState(20);
   const report=workspace?.status?.report;const excel=workspace?.status?.excel;

diff --git a/rules-panel/src/PriceBadge.jsx b/rules-panel/src/PriceBadge.jsx
@@ -4,5 +4,6 @@ import {signedPrice} from './visual-format.mjs';
 import {gapLabel} from './market-review.mjs';
 export function PriceBadge({gap,missing=false,unavailable=false,digits=2}){
  const tone=missing?'missing':unavailable?'nodata':priceTone(Number.isFinite(gap)?-gap:null);
- return <span className={'price-badge tone-'+tone} title={missing?'Brak oferty MM':unavailable?'Brak potwierdzonych danych':gapLabel(gap)}>{missing?'brak MM':unavailable?'?':signedPrice(Number.isFinite(gap)?-gap:null,digits)}</span>;
+ const description=missing?'Brak oferty MM':unavailable?'Brak potwierdzonych danych':gapLabel(gap);
+ return <span aria-label={description} className={'price-badge tone-'+tone} title={missing?'Brak oferty MM':unavailable?'Brak potwierdzonych danych':gapLabel(gap)}>{missing?'brak MM':unavailable?'?':signedPrice(Number.isFinite(gap)?-gap:null,digits)}</span>;
 }

diff --git a/rules-panel/src/styles.css b/rules-panel/src/styles.css
@@ -1,7 +1,7 @@
 @layer base, layout, components, responsive;
 @layer base {
   :root {
-    font-family: "Inter Variable", Arial, sans-serif;
+    font-family: "IBM Plex Sans", Arial, sans-serif;
     color: #22272e;
     background: #f7f8fa;
     font-synthesis: none;
